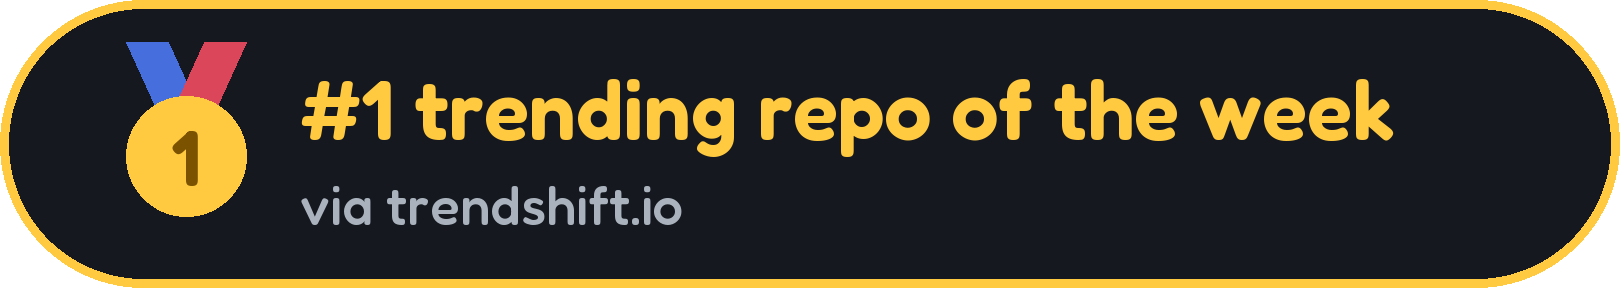
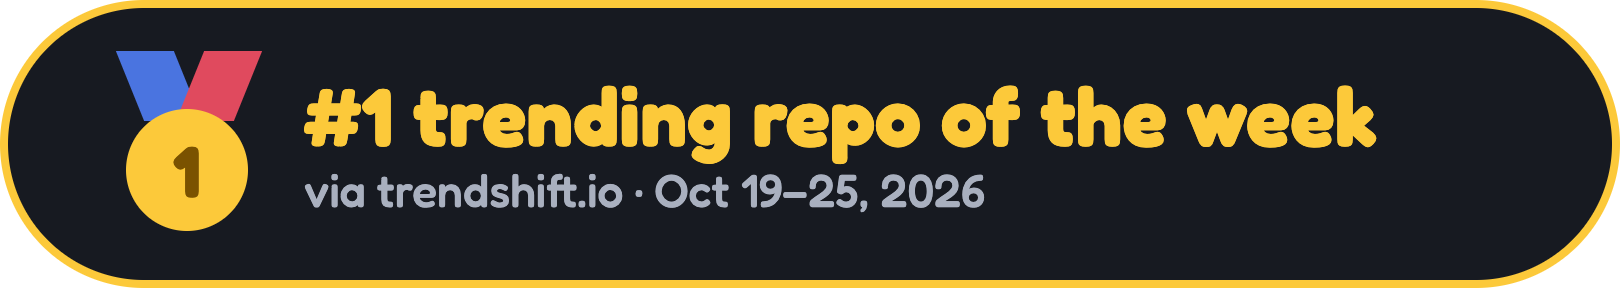
README: the #1 trending badge names its week, Oct 19–25 2026

diff --git a/README.md b/README.md
@@ -16,7 +16,7 @@
 </p>
 
 <p align="center">
-  <a href="https://trendshift.io/repositories/310225"><img src="docs/trending-badge.png" alt="#1 trending repo of the week, via trendshift.io" width="360"></a>
+  <a href="https://trendshift.io/repositories/310225"><img src="docs/trending-badge.png" alt="#1 trending repo of the week, Oct 19–25 2026, via trendshift.io" width="360"></a>
 </p>
 
 <p align="center">
